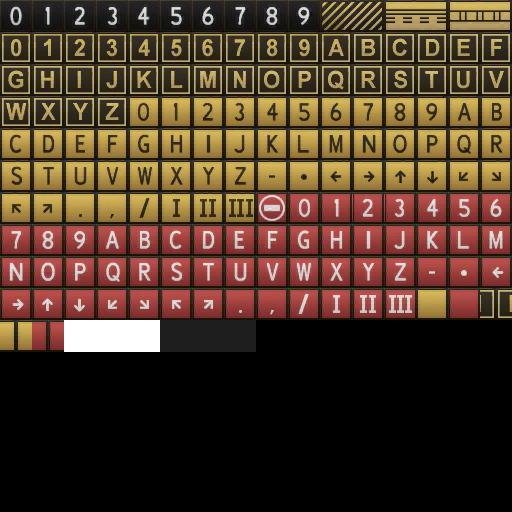
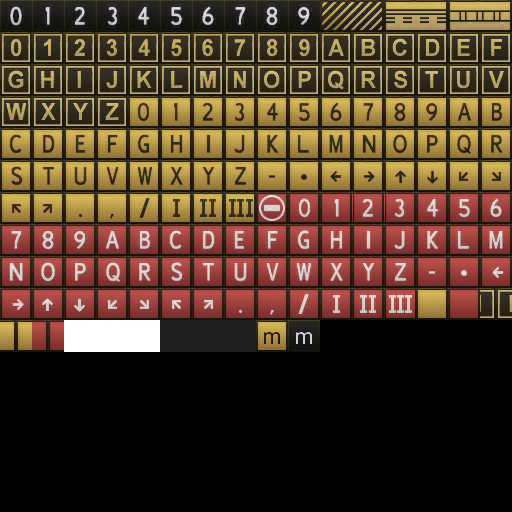
WED-1548, support lowercase m taxi sign letter in TaxiSignEditor

Changed region(s): [[0.5, 0.625, 0.625, 0.6875]]

diff --git a/src/WEDWindows/WED_Sign_Editor.cpp b/src/WEDWindows/WED_Sign_Editor.cpp
@@ -65,7 +65,7 @@ static const glyph_tex_info k_tex_syms[] = {
 	glyph_hazard,sign_color_independent,10,0,2,
 	glyph_safety,sign_color_independent,12,0,2,
 	glyph_critical,sign_color_independent,14,0,2,
-	
+
 	glyph_0,	sign_color_location,	0,	1,	1,
 	glyph_1,	sign_color_location,	1,	1,	1,
 	glyph_2,	sign_color_location,	2,	1,	1,
@@ -220,7 +220,9 @@ static const glyph_tex_info k_tex_syms[] = {
 	glyph_separator,sign_color_location,15,	9,	1,
 	
 	glyph_separator,sign_color_yellow,	0,	10,	1,
-	glyph_separator,sign_color_red,		1,	10,	1	
+	glyph_separator,sign_color_red,		1,	10,	1,
+	glyph_meters,   sign_color_yellow,	8,	10,	1,
+	glyph_meters,   sign_color_black,	9,	10,	1
 };
 
 static const int k_tex_syms_size = sizeof(k_tex_syms) / sizeof(k_tex_syms[0]);

diff --git a/src/WEDCore/WED_Sign_Parser.cpp b/src/WEDCore/WED_Sign_Parser.cpp
@@ -59,6 +59,7 @@ static const glyph_info_t	k_glyph_metadata[] = {
 	glyph_space,	"_",		"_",			1,	1,	0,	0,	0,
 	glyph_separator,"|",		"|",			1,	1,	1,	0,	0,
 	glyph_comma,	"comma",	",",			1,	1,	0,	0,	0,
+	glyph_meters,	"m",	    "m",			1,	0,	0,	1,	0,
 	
 	glyph_up,		"^u",		NULL,			1,	1,	0,	0,	0,
 	glyph_down,		"^d",		NULL,			1,	1,	0,	0,	0,

diff --git a/src/WEDCore/WED_Sign_Parser.h b/src/WEDCore/WED_Sign_Parser.h
@@ -110,6 +110,7 @@ enum parser_glyph_t {
 	glyph_7,
 	glyph_8,
 	glyph_9,
+	glyph_meters,
 	glyph_dash,				// Hyphen -
 	glyph_dot,				// dot is * in sign code
 	glyph_period,
